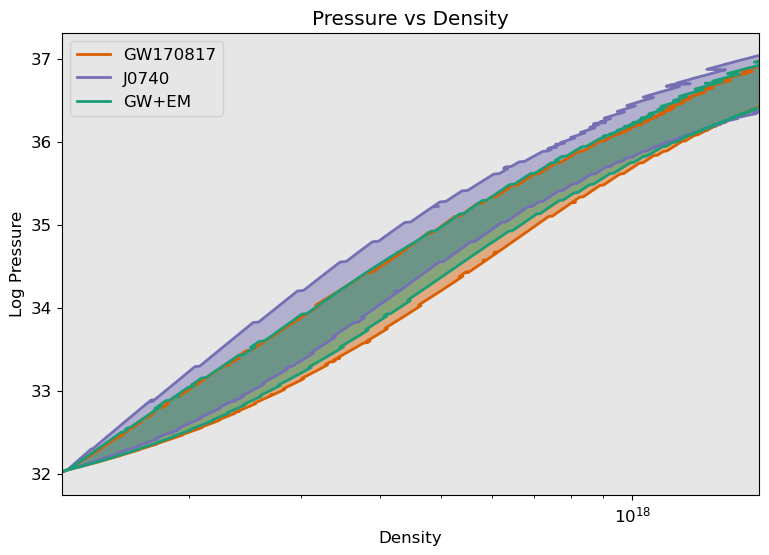
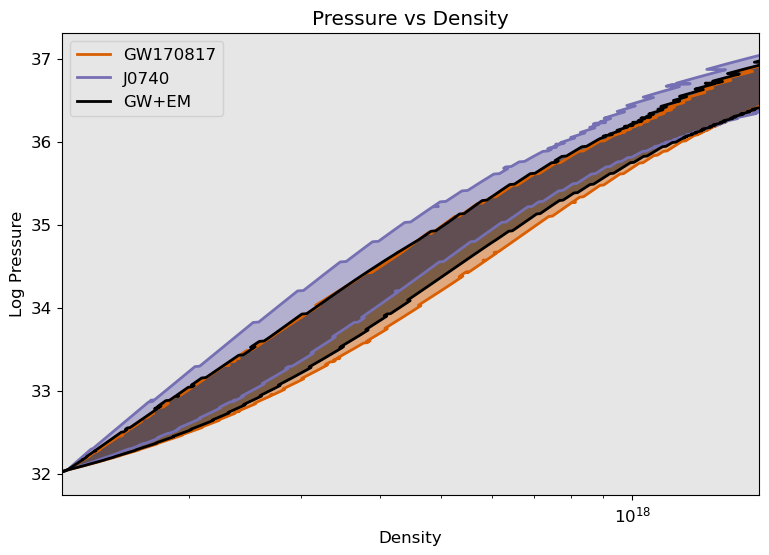
Plots of plots resembling Anarya's. Tenth attempt.

Changed region(s): [[0.0936, 0.0919, 0.9987, 0.8577]]

diff --git a/joint_inference/development/confidence_interval.py b/joint_inference/development/confidence_interval.py
@@ -8,7 +8,7 @@ def plot_intervals(outputfile):
 
     Files = ["run_data/8th_cutoff_plotting/spectral_p_vs_rho_cutoff_W100_S10000_GW170817_confidence.txt", "run_data/8th_cutoff_plotting/spectral_p_vs_rho_cutoff_W100_S10000_J0740_confidence.txt", "run_data/8th_cutoff_plotting/spectral_p_vs_rho_cutoff_W100_S10000_GW170817_J0740_hierarchical_confidence.txt"]
     labels = ["GW170817", "J0740", "GW+EM"]
-    colors = ["#d95f02", "#7570b3", "#1b9e77"]
+    colors = ["#d95f02", "#7570b3", "black"]
 
     pl.clf()
     pl.figure(figsize=(9,6))
